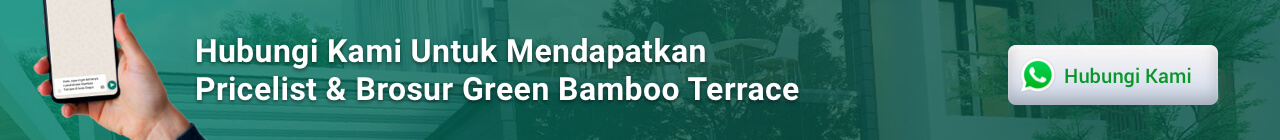
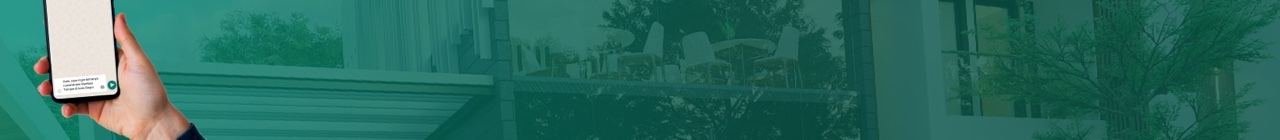
update: desktop version

diff --git a/assets/css/promo.css b/assets/css/promo.css
@@ -1,7 +1,49 @@
 *{
     font-family: 'Roboto', sans-serif;
 }
-
+.upper-content {
+    position: relative;
+}
+.upper-banner {
+    height: 140px;
+    background: url('../images/promo/banner.jpg') no-repeat center center;
+    background-size: cover;
+}
+.upper-banner__text {
+    color: #fff;
+    font-size: 32px;
+    font-family: 'Roboto';
+    font-weight: 700;
+    letter-spacing: 0.4px;
+    text-shadow: 0px 2px 4px rgba(0, 0, 0, 0.5);
+}
+.btn-banner {
+    width: 210px;
+    height: 60px;
+    background: linear-gradient(-180deg, rgb(249, 247, 246) 0%, rgb(206, 216, 234) 100%);
+    box-shadow: inset 0px 4px 4px 0px rgba(255, 255, 255, 0.45),
+    inset 0px -8px 15px 0px rgba(0, 0, 0, 0.2);
+    border-radius: 8px;
+    color: rgb(9, 150, 43);
+    font-size: 20px;
+    font-family: 'Roboto';
+    font-weight: 500;
+    text-align: center;
+}
+.btn-banner img {
+    width: 40px;
+    height: 40px;
+}
+.scroll-arrow {
+    position: absolute;
+    content: '';
+    width: 40px;
+    height: 40px;
+    left: 0;
+    right: 0;
+    bottom: 16px;
+    margin: auto;
+}
 .center-section{
     background: #e0eee0;
     padding: 103px 0 20px 0;
@@ -48,14 +90,18 @@
 .bottom-indicators li {
     display: block;
     flex: none !important;
-    width: 8px !important;
-    height: 8px !important;
+    width: 16px !important;
+    height: 16px !important;
     background-color: #d8d8d8 !important;
     border-radius: 50%;
     cursor: pointer;
 }
 .bottom-indicators li.active {
     background-color: #007264 !important;
+}
+.banner-fasilitas {
+    box-shadow: 0px 7px 20px 0px rgba(0, 0, 0, 0.1);
+    margin-top: 30px;
 }
 .footer-map{
     width: 100%;
@@ -90,6 +136,9 @@
     justify-content: center;
     width: 50px;
     height: 50px;
+}
+.footer-promo-item p {
+    font-size: 20px;
 }
 .footer-contact-wrapper{
     background: white;
@@ -129,8 +178,10 @@
 .banner-bottom .banner-text{
     color: #066354;
     font-family: "Roboto";
-    font-weight: bold;
+    font-weight: 700;
     margin-bottom: 0px;
+    font-size: 32px;
+    line-height: 32px; 
 }
 .banner-bottom .img-icon{
     width: 80px;
@@ -140,4 +191,7 @@
 .banner-bottom .btn-hubungi-kami{
     background: linear-gradient(-180deg, #00846f 0%, #00846f 0%, #085549 100%);
     color: white;
+    font-size: 20px;
+    height: 60px;
+    width: 180px;
 }

diff --git a/apps/views/pages/promo.php b/apps/views/pages/promo.php
@@ -1,9 +1,18 @@
 <div>
-    Upper content
-
-    <!-- CURRENTLY WORKING ON HUBUNGI KAMI BANNER BOTTOM SECTION -->
-    <!-- THIS PAGE DO NOT USE NAVBAR (100% based on provided design) -->
-    <!-- REMOVE THIS COMMENT AFTER READING IT -->
+    <div class="upper-content">
+        <img src="<?= base_url() ?>assets/images/promo/main-visual.jpg" alt="" class="img-fluid w-100">
+        <img src="<?= base_url() ?>assets/images/promo/arrow.png" alt="" class="scroll-arrow">
+    </div>
+    <div class="upper-banner">
+        <div class="container h-100">
+            <div class="d-flex align-items-center justify-content-between w-100 h-100">
+                <div class="upper-banner__text">Hubungi Kami Untuk Mendapatkan <br>Pricelist & Brosur Green Bamboo Terrace</div>
+                <button type="button" role="button" class="btn-banner">
+                    <img src="<?= base_url() ?>assets/images/promo/icon-wa.png" alt=""> Hubungi Kami
+                </button>
+            </div>
+        </div>
+    </div>
     <div class="center-section">
         <div class="container">
             <div class="row">
@@ -15,22 +24,22 @@
                         <div id="banner-top-page" class="carousel slide" data-ride="carousel" data-interval="7000">
                             <div class="carousel-inner">
                                 <div class="carousel-item active">
-                                    <img src="<?= base_url() ?>assets/images/detail/denah-akane.jpg" class="img-fluid" alt="">
+                                    <img src="<?= base_url() ?>assets/images/promo/fasad.jpg" class="img-fluid" alt="">
+                                    <h4 class="carousel-title">Rumah Type Akane & Momiji</h4>
+                                    <div class="carousel-subtitle">Harga mulai 1M</div>
+                                    <p class="carousel-text">Green Bamboo Terrace mempunyai dua unit tipe rumah, yaitu Tipe Akane dengan 3 kamar tidur, dan Tipe Momiji dengan 2 kamar tidur. Seluruh tipe unit rumah kami dibangun menggunakan material premium dengan standar kualitas Jepang.</p>
+                                </div>
+                                <div class="carousel-item">
+                                    <img src="<?= base_url() ?>assets/images/promo/denah-akane.jpg" class="img-fluid" alt="">
                                     <h4 class="carousel-title">Denah Bangunan Type Akane</h4>
                                     <div class="carousel-subtitle">Harga mulai 1M</div>
                                     <p class="carousel-text">Tipe Akane adalah rumah minimalis modern 2 lantai tipe 95 dengan 3 kamar tidur, dilengkapi dengan berbagai material premium dengan standar kualitas Jepang, seperti material HomogeneousTile Double Layer Alice yang digunakan sebagai penutup lantai sehingga membuat setiap injakan kaki Anda terasa nyaman dan sejuk.</p>
                                 </div>
                                 <div class="carousel-item">
-                                    <img src="<?= base_url() ?>assets/images/detail/denah-akane.jpg" class="img-fluid" alt="">
-                                    <h4 class="carousel-title">Denah Bangunan Type Akane</h4>
+                                    <img src="<?= base_url() ?>assets/images/promo/denahmomiji.jpg" class="img-fluid" alt="">
+                                    <h4 class="carousel-title">Denah Bangunan Type Momiji</h4>
                                     <div class="carousel-subtitle">Harga mulai 1M</div>
-                                    <p class="carousel-text">Tipe Akane adalah rumah minimalis modern 2 lantai tipe 95 dengan 3 kamar tidur, dilengkapi dengan berbagai material premium dengan standar kualitas Jepang, seperti material HomogeneousTile Double Layer Alice yang digunakan sebagai penutup lantai sehingga membuat setiap injakan kaki Anda terasa nyaman dan sejuk.</p>
-                                </div>
-                                <div class="carousel-item">
-                                    <img src="<?= base_url() ?>assets/images/detail/denah-akane.jpg" class="img-fluid" alt="">
-                                    <h4 class="carousel-title">Denah Bangunan Type Akane</h4>
-                                    <div class="carousel-subtitle">Harga mulai 1M</div>
-                                    <p class="carousel-text">Tipe Akane adalah rumah minimalis modern 2 lantai tipe 95 dengan 3 kamar tidur, dilengkapi dengan berbagai material premium dengan standar kualitas Jepang, seperti material HomogeneousTile Double Layer Alice yang digunakan sebagai penutup lantai sehingga membuat setiap injakan kaki Anda terasa nyaman dan sejuk.</p>
+                                    <p class="carousel-text">Tipe Momiji adalah rumah minimalis modern 2 lantai tipe 73 dengan 2 kamar tidur yang dapat digabung menjadi satu sehingga menjadi satu kamar tidur yang luas layaknya kamar hotel berbintang 5. Rumah ini juga tahan terhadap gempa karena menggunakan pondasi Strauss pile & beton bertulang pondasi batu kali. Dindingnya pun dibuat menggunakan bata merah dan mortar sehingga tidak akan mudah roboh saat diguncang gempa.</p>
                                 </div>
                             </div>
                             <ol class="bottom-indicators carousel-indicators">
@@ -40,26 +49,39 @@
                             </ol>
                         </div>
                     </div>
+                    <div class="banner-fasilitas">
+                        <img src="<?= base_url() ?>assets/images/promo/banner-fasilitas.jpg" class="img-fluid" alt="">
+                    </div>
                 </div>
             </div>
         </div>
     </div>
     <div class="container">
         <div class="row my-3">
-            <div class="col-lg">
-                <img src="<?php echo base_url(); ?>assets/images/promo/interior-1.jpg" class="img-fluid" alt="">
+            <div class="col-6 col-lg">
+                <a href="<?php echo base_url(); ?>assets/images/the-homes/akane-interior-1.png" data-toggle="lightbox" data-gallery="promo_gallery">
+                    <img src="<?php echo base_url(); ?>assets/images/promo/interior-1.jpg" class="img-fluid" alt="">
+                </a>
             </div>
-            <div class="col-lg">
-                <img src="<?php echo base_url(); ?>assets/images/promo/interior-2.jpg" class="img-fluid" alt="">
+            <div class="col-6 col-lg">
+                <a href="http://bambootajur.test/assets/images/the-homes/akane-interior-6.png" data-toggle="lightbox" data-gallery="promo_gallery">
+                    <img src="<?php echo base_url(); ?>assets/images/promo/interior-2.jpg" class="img-fluid" alt="">
+                </a>
             </div>
-            <div class="col-lg">
-                <img src="<?php echo base_url(); ?>assets/images/promo/interior-3.jpg" class="img-fluid" alt="">
+            <div class="col-6 col-lg">
+                <a href="http://bambootajur.test/assets/images/the-homes/akane-interior-3.png" data-toggle="lightbox" data-gallery="promo_gallery">
+                    <img src="<?php echo base_url(); ?>assets/images/promo/interior-3.jpg" class="img-fluid" alt="">
+                </a>
             </div>
-            <div class="col-lg">
-                <img src="<?php echo base_url(); ?>assets/images/promo/interior-4.jpg" class="img-fluid" alt="">
+            <div class="col-6 col-lg">
+                <a href="http://bambootajur.test/assets/images/the-homes/akane-interior-4.png" data-toggle="lightbox" data-gallery="akane_gallery">
+                    <img src="<?php echo base_url(); ?>assets/images/promo/interior-4.jpg" class="img-fluid" alt="">
+                </a>
             </div>
-            <div class="col-lg">
-                <img src="<?php echo base_url(); ?>assets/images/promo/interior-5.jpg" class="img-fluid" alt="">
+            <div class="col-6 col-lg">
+                <a href="http://bambootajur.test/assets/images/the-homes/akane-interior-5.png" data-toggle="lightbox" data-gallery="akane_gallery">
+                    <img src="<?php echo base_url(); ?>assets/images/promo/interior-5.jpg" class="img-fluid" alt="">
+                </a>
             </div>
         </div>
     </div>
@@ -123,6 +145,10 @@
 </div>
 <script defer src="https://cdnjs.cloudflare.com/ajax/libs/popper.js/1.14.3/umd/popper.min.js"></script>
 <script defer src="https://maxcdn.bootstrapcdn.com/bootstrap/4.3.1/js/bootstrap.min.js"></script>
+<script async="" type="text/javascript" src="https://cdnjs.cloudflare.com/ajax/libs/ekko-lightbox/5.3.0/ekko-lightbox.min.js"></script>
+<script defer>
+$(document).on("click",'[data-toggle="lightbox"]',function(t){t.preventDefault(),$(this).ekkoLightbox()});
+</script>
 <script>
 
 </script>

diff --git a/apps/views/layouts/blank.php b/apps/views/layouts/blank.php
@@ -45,6 +45,7 @@ $this->load->library('Layouts');
   <link rel="preload" as="font" href="<?= base_url(); ?>assets/fonts/OpenSans-Regular.ttf" crossorigin type="font/ttf" />
 
   <link href="https://fonts.googleapis.com/css2?family=Open+Sans:wght@400;500;600&family=Roboto&display=swap" rel="stylesheet">
+  <link href="https://cdnjs.cloudflare.com/ajax/libs/ekko-lightbox/5.3.0/ekko-lightbox.css" rel="stylesheet" type="text/css" async="">
 
   <!-- <link rel="preload" href="https://fonts.googleapis.com/css?family=Arvo:400,400i,700,700i&display=swap" as="style"> -->
   <!-- <link rel="stylesheet" href="https://fonts.googleapis.com/css?family=Arvo:400,400i,700,700i&display=swap"> -->
